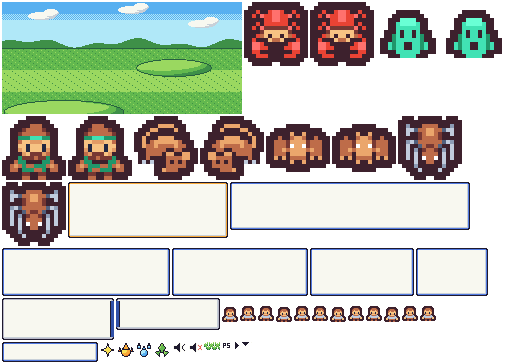
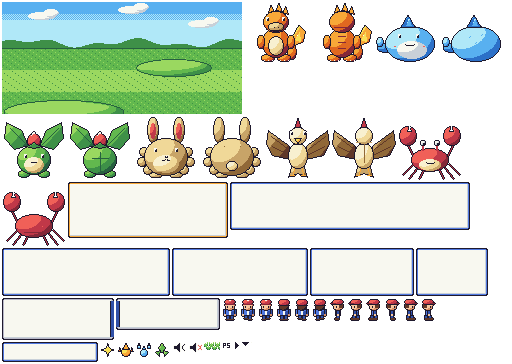
Arte procedural por defecto (atlas editable); Kenney pasa a assets:kenney

Changed region(s): [[0.0, 0.3022, 0.9062, 0.6951], [0.4688, 0.0, 1.0, 0.1813], [0.4375, 0.8159, 0.875, 0.9066]]

diff --git a/tools/build-assets.ts b/tools/build-assets.ts
@@ -5,8 +5,8 @@
 //   public/assets/maps/*.json              mapas de Tiled (capas, propiedades de tile, objetos)
 //
 // Fuente del arte del mundo (tiles, jugador y criaturas):
-//   npm run assets                 arte externo CC0 de Kenney (antes: npm run assets:download)  [por defecto]
-//   npm run assets:procedural      arte original generado por código (carpeta art/)
+//   npm run assets                 arte original generado por código (carpeta art/)  [por defecto]
+//   npm run assets:kenney          arte externo CC0 de Kenney (requiere npm run assets:download)
 // La interfaz (cajas, cursor, fondo de combate, efectos) y la fuente siempre se generan por código.
 import { createCanvas, type Canvas } from '@napi-rs/canvas';
 import { existsSync, mkdirSync, writeFileSync } from 'node:fs';
@@ -23,7 +23,7 @@ import { TILESET_FILE, toTiled } from './maps/tiled';
 const OUT = 'public/assets';
 const PAD = 2;       // margen transparente entre frames: evita sangrado al escalar
 const MAX_W = 512;
-const source = process.argv.includes('--source=procedural') ? 'procedural' : 'kenney';
+const source = process.argv.includes('--source=kenney') ? 'kenney' : 'procedural';
 mkdirSync(`${OUT}/maps`, { recursive: true });
 
 const save = (file: string, canvas: Canvas) => writeFileSync(`${OUT}/${file}`, canvas.toBuffer('image/png'));

diff --git a/README.md b/README.md
@@ -2,7 +2,7 @@
 
 Juego de rol por turnos inspirado en Pokémon Rubí, hecho con **Phaser 3 (3.90) + Vite + TypeScript**. Dos mapas explorables, combates aleatorios en hierba alta, audio procedural y un pipeline de assets completo: **atlas de sprites, tilemaps de Tiled, fuente bitmap y object pooling**.
 
-**Arte:** el mundo (terreno, casas, árboles), el personaje y las criaturas vienen de packs **CC0 de Kenney** ([Tiny Town](https://kenney.nl/assets/tiny-town) y [Tiny Dungeon](https://kenney.nl/assets/tiny-dungeon)); la interfaz, la fuente, el agua, la hierba alta y el audio se generan por código. Ver [`CREDITS.md`](CREDITS.md). Sin material de Nintendo ni de terceros con copyright.
+**Arte:** por defecto todo el arte (mundo, personaje, criaturas, interfaz) y el audio se generan por código (`art/`) y se vuelcan a un **atlas editable** en `public/assets/atlas.png` + `atlas.json`: puedes abrirlo y cambiar personajes a mano. Opcionalmente se pueden importar los packs CC0 de Kenney (`npm run assets:kenney`, ver [`CREDITS.md`](CREDITS.md)). Sin material de Nintendo ni de terceros con copyright.
 
 ## Arranque rápido
 
@@ -10,8 +10,11 @@ Juego de rol por turnos inspirado en Pokémon Rubí, hecho con **Phaser 3 (3.90)
 npm install
 npm run dev          # http://localhost:5173
 
-# opcional: volver a descargar los packs de Kenney y regenerar los assets
-npm run assets:download && npm run assets
+# regenerar el atlas desde el arte procedural (sobrescribe public/assets/)
+npm run assets
+
+# opcional: usar los packs de Kenney
+npm run assets:download && npm run assets:kenney
 ```
 
 | Comando | Qué hace |
@@ -19,8 +22,8 @@ npm run assets:download && npm run assets
 | `npm run dev` | Servidor de desarrollo (Vite) |
 | `npm run build` | Comprobación de tipos + build de producción en `dist/` (rutas relativas) |
 | `npm run assets:download` | Descarga los packs CC0 de Kenney a `assets-src/kenney/` |
-| `npm run assets` | Importa los packs y regenera atlas, tileset, fuente y mapas de Tiled en `public/assets/` |
-| `npm run assets:procedural` | Lo mismo, pero con el arte original generado por código (`art/`) |
+| `npm run assets` | Regenera atlas, tileset, fuente y mapas de Tiled en `public/assets/` con el arte procedural (`art/`) |
+| `npm run assets:kenney` | Lo mismo, pero importando los packs de Kenney |
 | `npm test` | 51 tests (motor de combate, canciones, integridad de atlas y mapas) |
 | `npm run lint` | ESLint + typescript-eslint |
 | `npm run check` | lint + tests + build (lo mismo que ejecuta el CI) |
@@ -78,7 +81,7 @@ src/
   ui/                   PixelText, StatusBox, métricas de fuente, colores
 ```
 
-Flujo de datos: **packs de Kenney (o `art/`) + `tools/maps` → `npm run assets` → `public/assets/` → `PreloadScene` → escenas**.
+Flujo de datos: **`art/` (o packs de Kenney) + `tools/maps` → `npm run assets` → `public/assets/` → `PreloadScene` → escenas**.
 
 ```
 PreloadScene ──carga──▶ atlas · tileset · font.fnt · maps/*.json
@@ -107,7 +110,7 @@ OverworldScene ──encuentro──▶ BattleScene (wake) ──resultado──
 
 ## Límites conocidos
 
-- **Arte externo:** los packs de Kenney traen un solo fotograma por personaje y monstruo, así que el jugador no tiene 4 direcciones ni caminata propia (se simula un saltito) y los monstruos de combate son el mismo sprite reflejado de espaldas. Al escalar ×4 los píxeles de las criaturas son más grandes que los de la interfaz.
+- **Arte externo (solo con `assets:kenney`):** los packs de Kenney traen un solo fotograma por personaje y monstruo, así que el jugador no tiene 4 direcciones ni caminata propia (se simula un saltito) y los monstruos de combate son el mismo sprite reflejado de espaldas. Al escalar ×4 los píxeles de las criaturas son más grandes que los de la interfaz.
 - **Agua animada y hierba alta:** los packs usados no las traen; se rellenan con arte generado (el script lo avisa).
 - Cada criatura tiene 4 movimientos fijos y no hay estados alterados; captura, inventario, tienda y guardado quedan fuera del alcance.
 - El texto es solo en mayúsculas (la fuente propia no tiene minúsculas).
